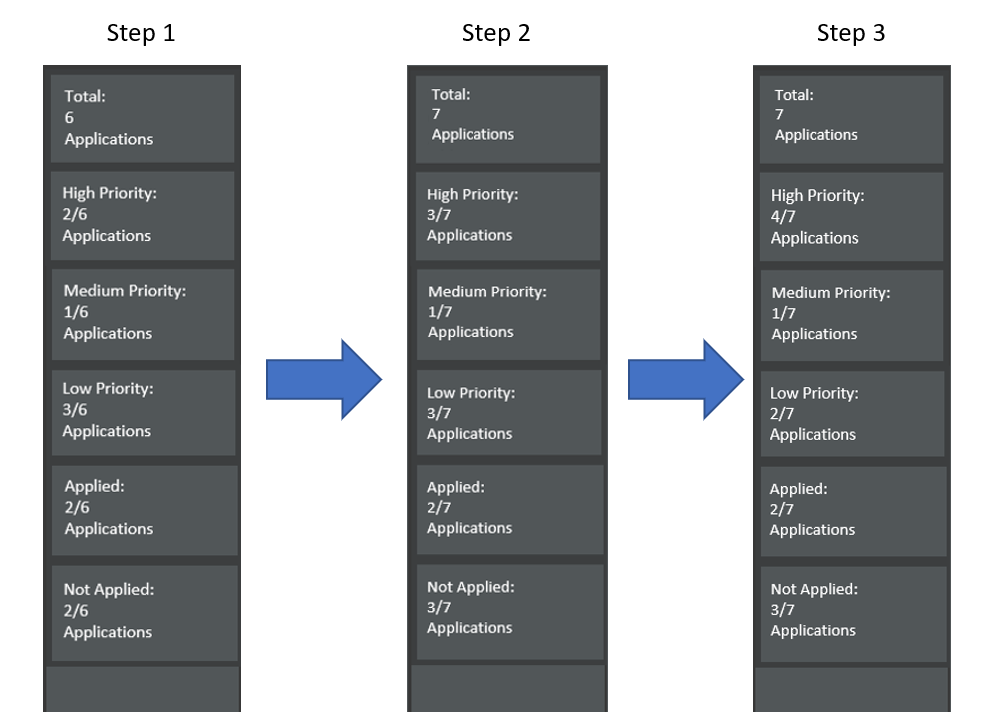
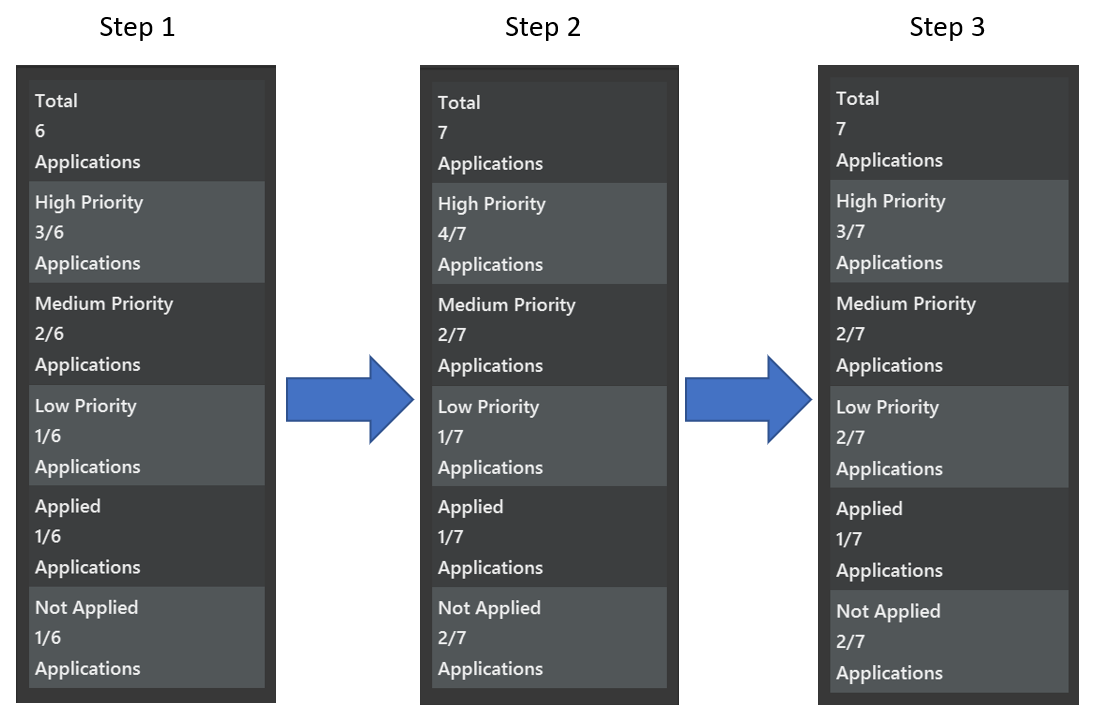
Update DG summary bar feature implementation

diff --git a/docs/DeveloperGuide.md b/docs/DeveloperGuide.md
@@ -284,22 +284,26 @@ Given below is an example usage scenario and how the sort mechanism behaves at e
 
 --------------------------------------------------------------------------------------------------------------------
 
-### \[Proposed\] Summary bar
+### Summary bar
 
-Proposed implementation
+#### Implementation
 
-The proposed Summary bar is facilitated by `SummaryBar` in the model component. The `SummaryBar` will compose of one
-`StatsBox` per statistic box in the summary bar. The summary bar will take a column on the right of the `ApplicationListPanel` and be populated by `StatsBox`'s.
-Each `StatsBox` will hold its relevant text and statistic. Example look:
+The Summary bar is facilitated by `SummaryList` in the model component. The `SummaryList` will compose of one
+`SummaryBox` per statistic box in the summary bar. The summary bar resides in the `SummaryListPanel` in the UI component. 
+It takes a column on the right of the `ApplicationListPanel` and is populated by `SummaryCard` objects.
+Each `SummaryCard` is associated with a `SummaryBox` that holds its relevant text and statistic. 
 
-![SummaryBarExample](images/SummaryBarExample.png)
+Summary bar UI (highlighted in red):
 
-The `SummaryBar` and `StatsBox` will implement the following operations:
+![SummaryBarExample](images/SummaryBarUI.png)
 
-- `SummaryBar#init()` — Initialises the summary bar with all `StatsBox`.
-- `SummaryBar#update()` — Recalculate and update all `StatsBox`.
+The `SummaryList` implements the following operations:
 
-These operations will be exposed in the `Model` interface as `Model#initSummaryBar()` and `Model#updateSummaryBar()` respectively.
+- `SummaryList#update()` — Recalculate and update the list of `SummaryBox` objects.
+- `SummaryList#getTotalApplications` — Gets the total number of applications.
+- `SummaryList#getTotalTagApplications` — Gets the total number of applications with a specific tag name.
+
+`SummaryList#update()` will be exposed in the `Model` interface as `Model#updateSummaryBoxList()`.
 
 Below is an example scenario and how the SummaryBar will behave.
 
@@ -307,7 +311,7 @@ Step 1. The user launches the application. The `SummaryBar` will be initialized 
 
 Step 2. The user executes `add n/Shopee j/Software Engineer Intern p/87438807 e/hr@shopee.sg a/5 Science Park Dr t/SoftwareEngineering pt/HIGH ast/NOT_APPLIED` to add an application. The add command calls `Model#updateSummaryBar()`, causing all `StatsBox` to update with their new values.
 
-Step 3. The user executes `edit 1 pt/HIGH` to edit the first applications' priority tag to `HIGH`. The edit command calls `Model#updateSummaryBar()`, causing all `StatsBox` to update with their new values.
+Step 3. The user executes `edit 1 pt/low` to edit the first applications' priority tag to `LOW`. The edit command calls `Model#updateSummaryBar()`, causing all `StatsBox` to update with their new values.
 
 <img src="images/SummaryBarExampleScenario.PNG" width="600" />
 
@@ -318,13 +322,13 @@ Step 3. The user executes `edit 1 pt/HIGH` to edit the first applications' prior
 #### Design Considerations:
 **Aspect: How update executes:**
 
-* **Alternative 1 (current choice):** Recalculate and update all `StatsBox` in the summary bar.
+* **Alternative 1 (current choice):** Recalculate and update all `SummaryBox` objects on each command.
     * Pros: Easy to implement.
     * Cons: May have performance issues when handling large number of applications.
 
-* **Alternative 2:** Individual command knows which specific `StatsBox` to update.
-    * Pros: Will use less computing (e.g. for `edit pt/HIGH`, just update the `StatsBox` for `HIGH` priority tag count).
-    * Cons: We must ensure that the implementation of each individual command are correct, harder to implement.
+* **Alternative 2:** Individual command knows which specific `SummaryBox` to update.
+    * Pros: Will use less computing (e.g. for `edit pt/HIGH`, just update the `SummaryBox` for `HIGH` priority tag count).
+    * Cons: We must ensure that the implementation of each individual command is correct, harder to implement.
 
 
 ###  Feature to edit Application Status & Priority Tags
